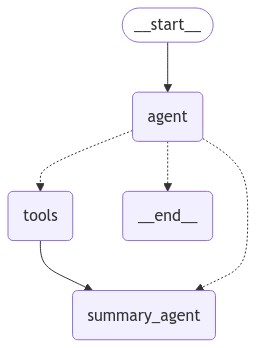
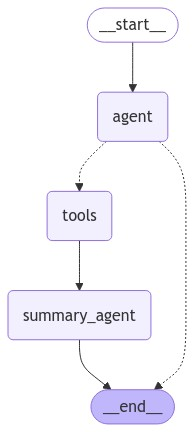
added short-term memory

diff --git a/pymol-assistant/src/dag/nodes.py b/pymol-assistant/src/dag/nodes.py
@@ -3,9 +3,11 @@ from src.prompts import *
 
 from typing import Literal
 from langgraph.graph import MessagesState, END
+from langchain_core.messages import BaseMessage
 from langchain.schema import (
     SystemMessage,    # Generic system message
     HumanMessage,     # HumanMessage is a message from the human
+    AIMessage,        # AIMessage is a message from the AI
 )
 from langchain_core.chat_history import InMemoryChatMessageHistory
 from langchain_core.runnables import RunnableConfig
@@ -21,8 +23,6 @@ def get_chat_history(session_id: str) -> InMemoryChatMessageHistory:
         chats_by_session_id[session_id] = chat_history
     return chat_history
 
-session_id = uuid.uuid4()
-
 
 # Define the function that determines whether to continue or not
 def should_continue(state: MessagesState) -> Literal["tools", END]:
@@ -36,54 +36,82 @@ def should_continue(state: MessagesState) -> Literal["tools", END]:
     # Otherwise, we stop (reply to the user)
     return END
 
-
 # Define the function that calls the model
-def call_model(state: dict) -> str:
+def call_model(state: MessagesState, config: RunnableConfig) -> list[BaseMessage]:
+    # Make sure that config is populated with the session id
+    if "configurable" not in config or "session_id" not in config["configurable"]:
+        raise ValueError(
+            "Make sure that the config includes the following information: {'configurable': {'session_id': 'some_value'}}"
+        )
     # Get the chat history for the session
     chat_history = get_chat_history(config.get("configurable").get("session_id"))
+    #print("1. ", chat_history.messages)
+    if len(chat_history.messages) == 0:
+        chat_history.add_message(SystemMessage(content=SYSTEM_MESSAGE_PROMPT))
     
+    messages = list(chat_history.messages) + state['messages']
+
+    response = model.invoke(messages)
+
+    chat_history.add_messages(state["messages"] + [response])
+    
+    return {"messages": response}
+
+def call_summary_model(state: MessagesState, config: RunnableConfig) -> list[BaseMessage]:
+    """This model do not need to invoke it with the chat_history, because it is a summarization model
+    But we need to add the last message to the chat_history
+    """
+    # Make sure that config is populated with the session id
+    if "configurable" not in config or "session_id" not in config["configurable"]:
+        raise ValueError(
+            "Make sure that the config includes the following information: {'configurable': {'session_id': 'some_value'}}"
+        )
+    
+    # Get the chat history for the session
+    chat_history = get_chat_history(config.get("configurable").get("session_id"))
+    #print(chat_history.messages)
+
     messages = state['messages']
-    
+
     last_message = messages[-1]
-    prompt_input_messages = [
-        SystemMessage(content=SYSTEM_MESSAGE_PROMPT),
-        HumanMessage(content=last_message.content),
-    ]
-    response = model.invoke(prompt_input_messages)
-    return {
-        "messages": [response] # We return a list, because this will get added to the existing list
-            }
 
-# Define the function that calls the model
-def call_model(state: dict) -> str:
+    response = model.invoke([
+        HumanMessage(content=SUMMARY_LLM_PROMPT.format(context=last_message.content))
+        ])
     
-    messages = state['messages']
+    chat_history.add_messages([response])
+
+    return {"messages": response}
+
+
+# # Define the function that calls the model
+# def call_model(state: dict) -> str:
+#     # Get the chat history for the session
+#     chat_history = get_chat_history(config.get("configurable").get("session_id"))
     
-    last_message = messages[-1]
-    prompt_input_messages = [
-        SystemMessage(content=SYSTEM_MESSAGE_PROMPT),
-        HumanMessage(content=last_message.content),
-    ]
-    response = model.invoke(prompt_input_messages)
-    return {
-        "messages": [response] # We return a list, because this will get added to the existing list
-            }
-
-
-
-
-
-def call_summary_model(state: dict) -> str:
+#     messages = state['messages']
     
-    messages = state['messages']
+#     last_message = messages[-1]
+#     prompt_input_messages = [
+#         SystemMessage(content=SYSTEM_MESSAGE_PROMPT),
+#         HumanMessage(content=last_message.content),
+#     ]
+#     response = model.invoke(prompt_input_messages)
+#     return {
+#         "messages": [response] # We return a list, because this will get added to the existing list
+#             }
+
+# def call_summary_model(state: dict) -> str:
     
-    last_message = messages[-1]
+#     messages = state['messages']
     
-    prompt_input_messages = [
-        #SystemMessage(content=SYSTEM_MESSAGE_PROMPT),
-        HumanMessage(content=SUMMARY_LLM_PROMPT.format(context=last_message.content)),
-    ]
-    response = model.invoke(prompt_input_messages)
-    return {
-        "messages": [response] # We return a list, because this will get added to the existing list
-            }
+#     last_message = messages[-1]
+    
+#     prompt_input_messages = [
+#         #SystemMessage(content=SYSTEM_MESSAGE_PROMPT),
+#         HumanMessage(content=SUMMARY_LLM_PROMPT.format(context=last_message.content)),
+#     ]
+#     response = model.invoke(prompt_input_messages)
+#     return {
+#         "messages": [response] # We return a list, because this will get added to the existing list
+#             }

diff --git a/pymol-assistant/src/server_lg.py b/pymol-assistant/src/server_lg.py
@@ -13,7 +13,6 @@ from src.dag.workflow import graph
 from langchain.schema import (
     HumanMessage,     # Humanessage is a message from the human
 )
-
 from langchain_core.runnables import RunnableConfig
 
 # TODO: config logger output directory in the config file
@@ -35,13 +34,13 @@ async def submit_question(question: QuestionModel):
         json: The response to the question.
     """
     config = RunnableConfig(configurable={
-        "session_id": str(session_id),
-        "thread_id": "Thread-1"
+        "thread_id": "Thread-1",
+        "session_id": str(uuid.uuid4())
         })
 
-    if "configurable" not in config or "session_id" not in config["configurable"]:
+    if "configurable" not in config or "thread_id" not in config["configurable"]:
         raise ValueError(
-            "Make sure that the config includes the following information: {'configurable': {'session_id': 'some_value'}}"
+            "Make sure that the config includes the following information: {'configurable': {'thread_id': 'some_value'}}"
         )
 
     logger.info(f"Received question: {question.question}")

diff --git a/pymol-assistant/src/dag/workflow.py b/pymol-assistant/src/dag/workflow.py
@@ -1,4 +1,5 @@
 import os
+import uuid
 
 from src.dag.tools import tool_node
 from src.dag.nodes import call_model, should_continue, call_summary_model
@@ -26,14 +27,13 @@ workflow.add_edge(START, "agent")
 workflow.add_conditional_edges(
     "agent", 
     should_continue, 
-    ["tools", "summary_agent", END]
+    ["tools", END]
     )
 
 # We now add a normal edge from `tools` to `summary_agent`.
 # This means that after `tools` is called, `summary_agent` node is called next.
 workflow.add_edge("tools", 'summary_agent')
-#workflow.add_edge("summary_agent", END)
-
+workflow.add_edge("summary_agent", END)
 
 # Initialize memory to persist state between graph runs
 checkpointer = MemorySaver()
